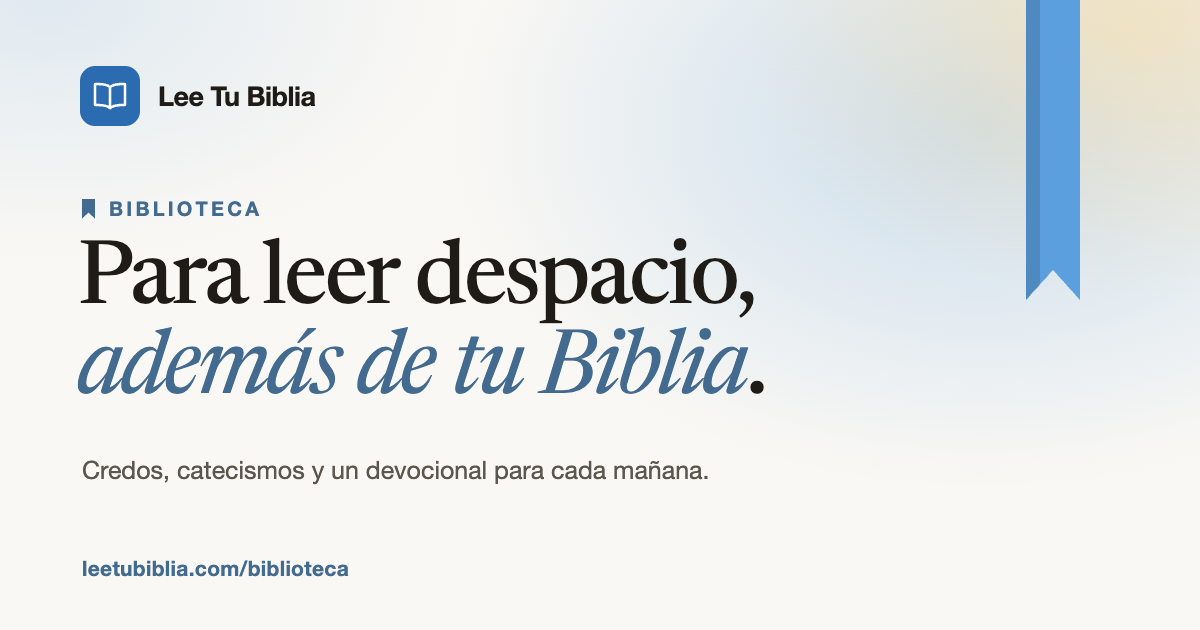
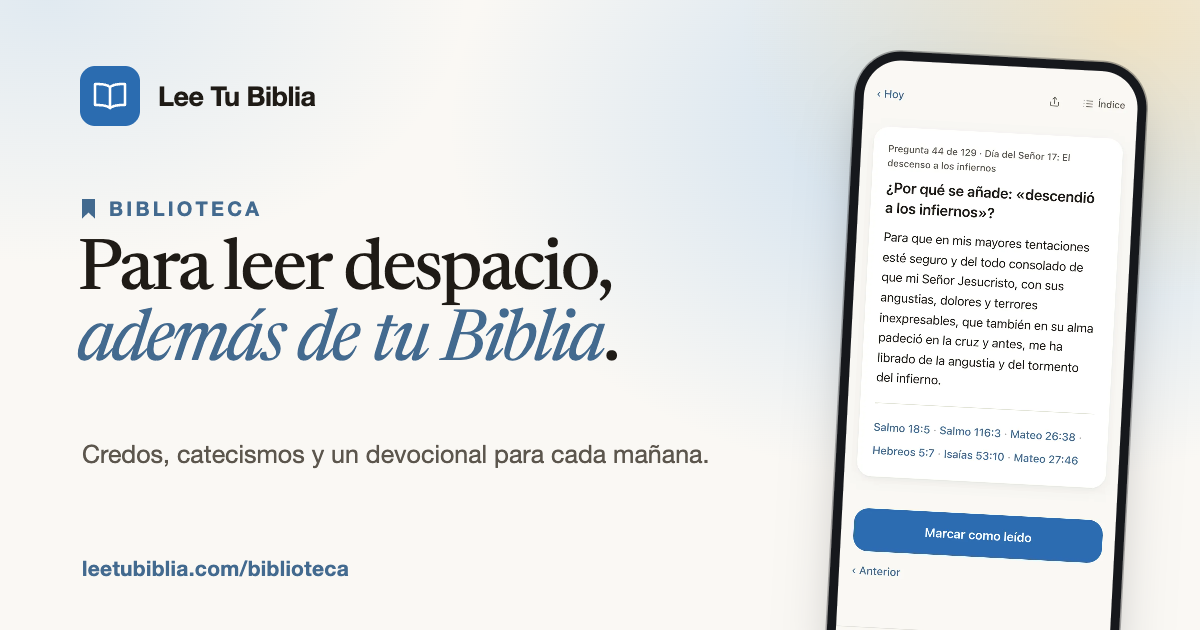
Imágenes sociales (og-*): plantilla Marcapáginas con captura real del teléfono en /info, /lideres, /biblioteca, /ayuda y la genérica; /privacidad tiene la suya

diff --git a/vite.config.js b/vite.config.js
@@ -87,8 +87,8 @@ const LANDING_PAGES = [
     description:
       'Qué guardamos y qué no, en simple: privado por defecto, sin publicidad, no vendemos tus datos, y podés borrar tu cuenta y todo lo tuyo cuando quieras.',
     url: 'https://leetubiblia.com/privacidad',
-    image: 'https://leetubiblia.com/og-image.png',
-    alt: 'Lee Tu Biblia',
+    image: 'https://leetubiblia.com/og-privacidad.png',
+    alt: 'Lee Tu Biblia — privacidad: tu vida con Dios es tuya',
   },
 ]
 
